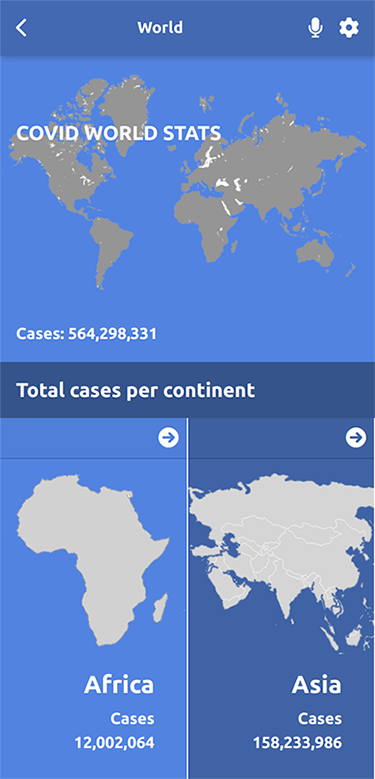
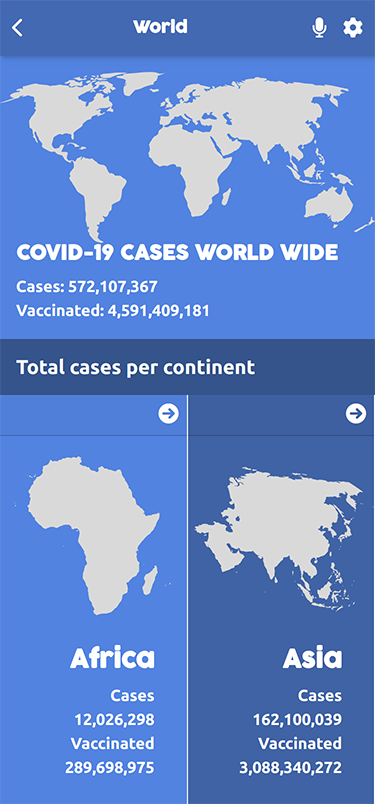
Update app screenshot and country listing page titles

diff --git a/src/index.css b/src/index.css
@@ -68,6 +68,15 @@ select {
   font-family: 'COCOGOOSE', sans-serif;
 }
 
+.card-body h2,
+.country .card-title {
+  font-size: 1.2em;
+}
+
+.country .card-title {
+  font: 15px 'Lato', sans-serif;
+}
+
 .slider .card-title {
   top: 65px;
   position: absolute;
@@ -97,9 +106,8 @@ select {
 }
 
 .country .card .card-title {
-  font-size: 18px;
   color: var(--white);
-  font-family: 'COCOGOOSE', sans-serif;
+  font: bold 18px 'Lato', sans-serif;
 }
 
 .country .card .card-header {

diff --git a/README.md b/README.md
@@ -23,8 +23,6 @@
 ## Application ScreenShot
 ![Homepage](/public/images/app.png)
 ![Country listing page](/public/images/app2.png)
-![Country listing page](/public/images/app3.png)
-
 
 ## Getting Started
 
